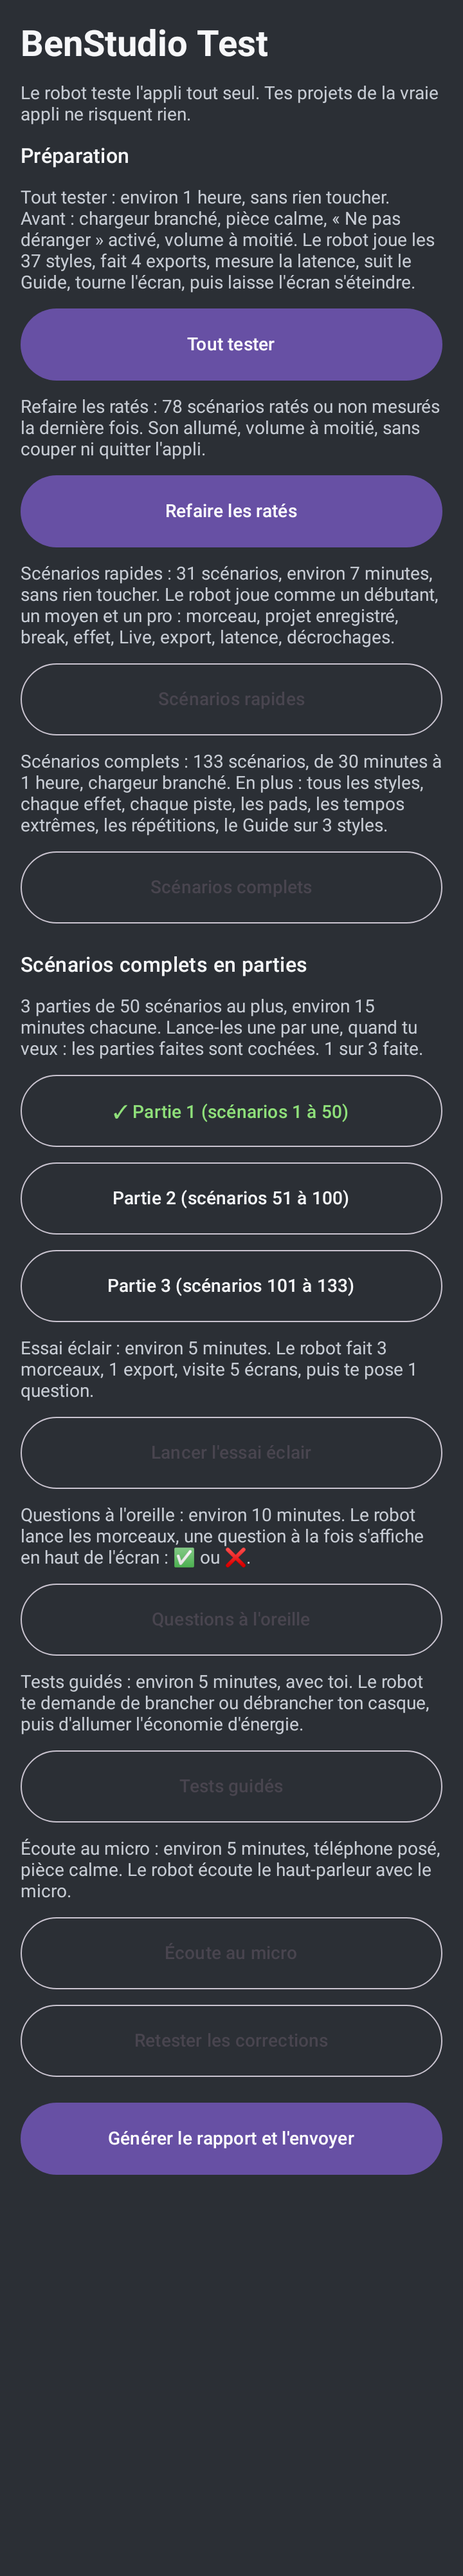
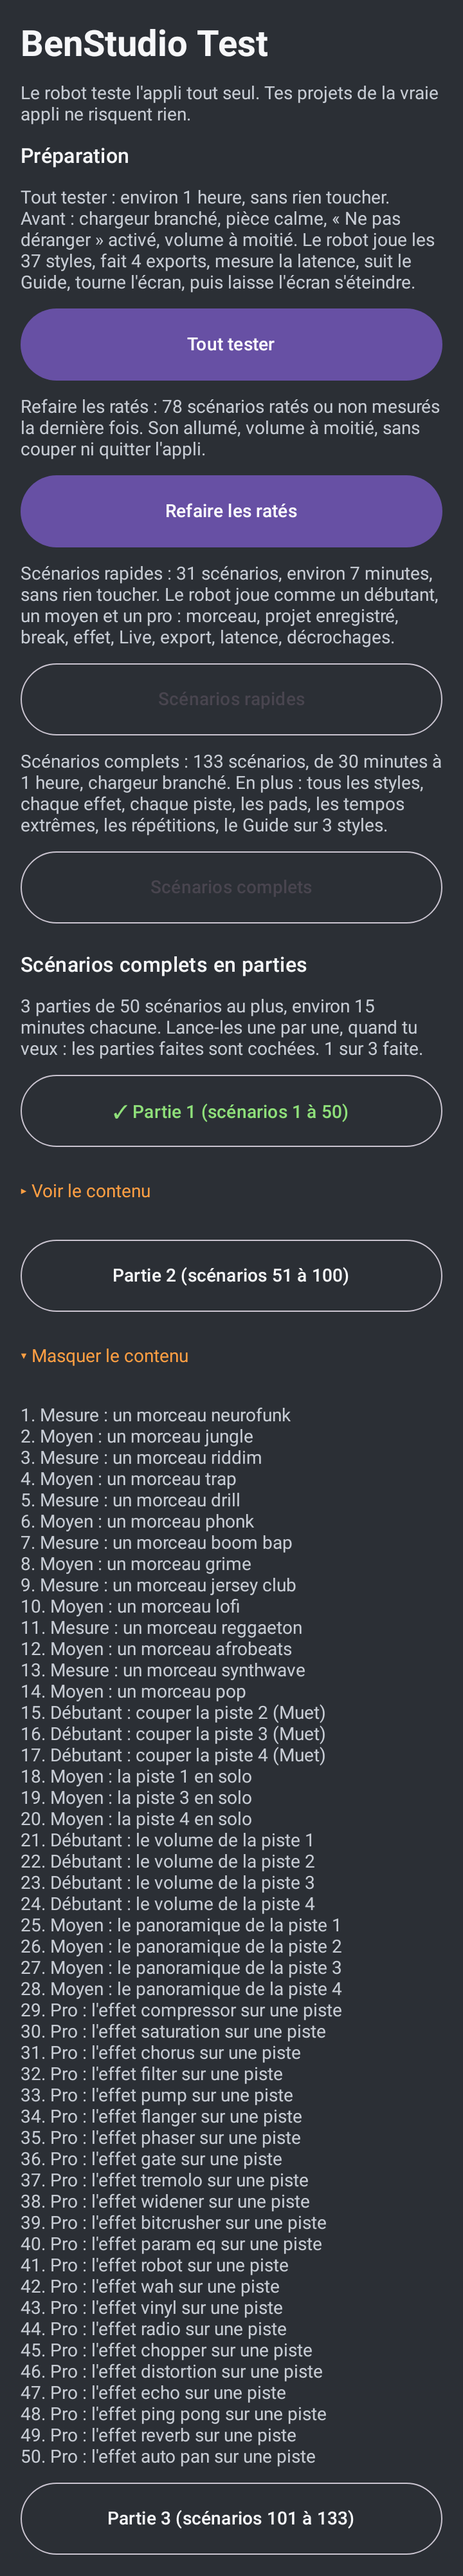
vert: bentest parts show their scenarios, a stopped replay keeps the part played
Claude-Session: https://claude.ai/code/session_014RxrDNvxe9JE49Z5pd5fBx

Changed region(s): [[0.0306, 0.4375, 0.9472, 1.0], [0.8556, 0.7188, 0.8861, 0.75], [0.7333, 0.9688, 0.7639, 1.0]]

diff --git a/app/src/test/java/com/pocketstudio/bentest/PartiesTest.kt b/app/src/test/java/com/pocketstudio/bentest/PartiesTest.kt
@@ -8,6 +8,7 @@ import androidx.compose.runtime.mutableStateOf
 import androidx.compose.runtime.setValue
 import androidx.compose.ui.test.assertTextContains
 import androidx.compose.ui.test.junit4.createAndroidComposeRule
+import androidx.compose.ui.test.onAllNodesWithTag
 import androidx.compose.ui.test.onNodeWithTag
 import androidx.compose.ui.test.onRoot
 import androidx.compose.ui.test.performClick
@@ -80,7 +81,15 @@ class PartiesTest {
             "part 2 not ticked",
             compose.onNodeWithTag("bentest_partie_2").fetchSemanticsNode().config.toString().contains("✓"),
         )
+        // Each part says what it holds, folded by default: its scenarios' names, numbered in the part.
+        assertEquals(0, compose.onAllNodesWithTag("bentest_partie_liste_2").fetchSemanticsNodes().size)
+        compose.onNodeWithTag("bentest_partie_contenu_2").performScrollTo().performClick()
+        val p2 = Scenarios.liste(Scenarios.partie(2))
+        compose.onNodeWithTag("bentest_partie_liste_2").assertTextContains("1. ${p2[0].label}", substring = true)
+        compose.onNodeWithTag("bentest_partie_liste_2").assertTextContains("${p2.size}. ${p2.last().label}", substring = true)
         compose.onRoot().captureRoboImage("screenshots/bentest/accueil_parties.png")
+        compose.onNodeWithTag("bentest_partie_contenu_2").performScrollTo().performClick()
+        assertEquals(0, compose.onAllNodesWithTag("bentest_partie_liste_2").fetchSemanticsNodes().size)
         compose.onNodeWithTag("bentest_partie_2").performScrollTo().performClick()
         assertEquals(listOf(2), started)
         // The report button is the screen's last one, under every run's buttons.
@@ -125,6 +134,15 @@ class PartiesTest {
             Robot.archiverPartie(app)
         }
         assertEquals(setOf(1, 2), Robot.partiesFaites(app))
+        // A replay of part 2 stopped halfway (no « fini ») keeps the part already played, still ticked.
+        Robot.carnet(app).let { c ->
+            c.clear()
+            val s = Scenarios.liste(Scenarios.partie(2))[0]
+            c.add(Carnet.NOTE, s.id, "paquet;${Scenarios.partie(2)}")
+            c.add(Carnet.DEBUT, s.id)
+        }
+        Robot.archiverPartie(app)
+        assertEquals(setOf(1, 2), Robot.partiesFaites(app))
         // « Tout recommencer » forgets the run, never the parts played.
         Robot.reset(app)
         assertEquals(setOf(1, 2), Robot.partiesFaites(app))
@@ -147,6 +165,7 @@ class PartiesTest {
             assertTrue(carnet2.contains("ok partie 2"))
             val sommaire = z.getInputStream(z.getEntry("parties.md")).readBytes().toString(Charsets.UTF_8)
             assertTrue(sommaire, sommaire.contains("Partie 1") && sommaire.contains("Partie 2"))
+            assertTrue(sommaire, sommaire.contains("1. ${Scenarios.liste(Scenarios.partie(2))[0].label}"))
         }
         Robot.oublierParties(app)
         assertEquals(emptySet<Int>(), Robot.partiesFaites(app))

diff --git a/app/src/benTest/java/com/pocketstudio/bentest/BenTestActivity.kt b/app/src/benTest/java/com/pocketstudio/bentest/BenTestActivity.kt
@@ -16,6 +16,7 @@ import androidx.compose.foundation.layout.Row
 import androidx.compose.foundation.layout.fillMaxSize
 import androidx.compose.foundation.layout.fillMaxWidth
 import androidx.compose.foundation.layout.heightIn
+import androidx.compose.foundation.clickable
 import androidx.compose.foundation.layout.padding
 import androidx.compose.foundation.layout.safeDrawingPadding
 import androidx.compose.foundation.rememberScrollState
@@ -191,6 +192,17 @@ private fun Parties(faites: Set<Int>, start: (Int) -> Unit) {
         OutlinedButton(onClick = { start(i) }, modifier = Modifier.fillMaxWidth().heightIn(min = 56.dp).testTag("bentest_partie_$i")) {
             Text(if (faite) "✓ $label" else label, color = if (faite) Neon.Acid else Neon.TextPrimary)
         }
+        // What the part holds, folded by default: its scenarios' names, numbered in the part.
+        var ouvert by remember(i) { mutableStateOf(false) }
+        Text(
+            if (ouvert) "▾ Masquer le contenu" else "▸ Voir le contenu",
+            color = Neon.Cyan,
+            modifier = Modifier.fillMaxWidth().heightIn(min = 48.dp).clickable { ouvert = !ouvert }.padding(vertical = 12.dp).testTag("bentest_partie_contenu_$i"),
+        )
+        if (ouvert) Text(
+            Scenarios.contenuPartie(i).joinToString("\n"),
+            color = Neon.TextSecondary, modifier = Modifier.testTag("bentest_partie_liste_$i"),
+        )
     }
 }
 

diff --git a/app/src/benTest/java/com/pocketstudio/bentest/Robot.kt b/app/src/benTest/java/com/pocketstudio/bentest/Robot.kt
@@ -112,6 +112,8 @@ object Robot {
         val c = carnet(context)
         val lines = c.lines()
         val n = Scenarios.numeroPartie(Scenarios.paquet(lines)) ?: return
+        // Only a finished part is kept: a replay stopped halfway never erases the part already played.
+        if (lines.none { it.kind == Carnet.FINI }) return
         val to = partieDir(context, n)
         to.deleteRecursively()
         to.mkdirs()
@@ -378,7 +380,10 @@ object Robot {
                         for (n in 1..Scenarios.NB_PARTIES) {
                             val taille = Scenarios.liste(Scenarios.partie(n)).size
                             val etat = if (n in faites) Scenarios.verdict(Carnet(File(partieDir(context, n), "carnet.tsv")).lines()) else "pas jouée"
-                            appendLine("- Partie $n (scénarios $debut à ${debut + taille - 1}) : $etat")
+                            appendLine("## Partie $n (scénarios $debut à ${debut + taille - 1}) : $etat")
+                            appendLine()
+                            Scenarios.contenuPartie(n).forEach { appendLine(it) }
+                            appendLine()
                             debut += taille
                         }
                     }

diff --git a/app/src/benTest/java/com/pocketstudio/bentest/Scenarios.kt b/app/src/benTest/java/com/pocketstudio/bentest/Scenarios.kt
@@ -1266,6 +1266,8 @@ class Scenarios(
             if (!paquet.startsWith(PREFIXE_PARTIE)) null else paquet.removePrefix(PREFIXE_PARTIE).toIntOrNull()?.takeIf { it in 1..NB_PARTIES }
 
         /** A getter: [LISTE] is set further down this object. */
+        /** Part [n]'s scenarios as Benjamin reads them: « 1. name », numbered in the part. */
+        fun contenuPartie(n: Int): List<String> = liste(partie(n)).mapIndexed { k, s -> "${k + 1}. ${s.label}" }
         val PAQUETS: List<String> get() = listOf(RAPIDE, COMPLET, RATES) + (1..NB_PARTIES).map(::partie)
         const val DUREE_COMPLET_MAX_S = 65 * 60
         private const val PAQUET = "paquet"
